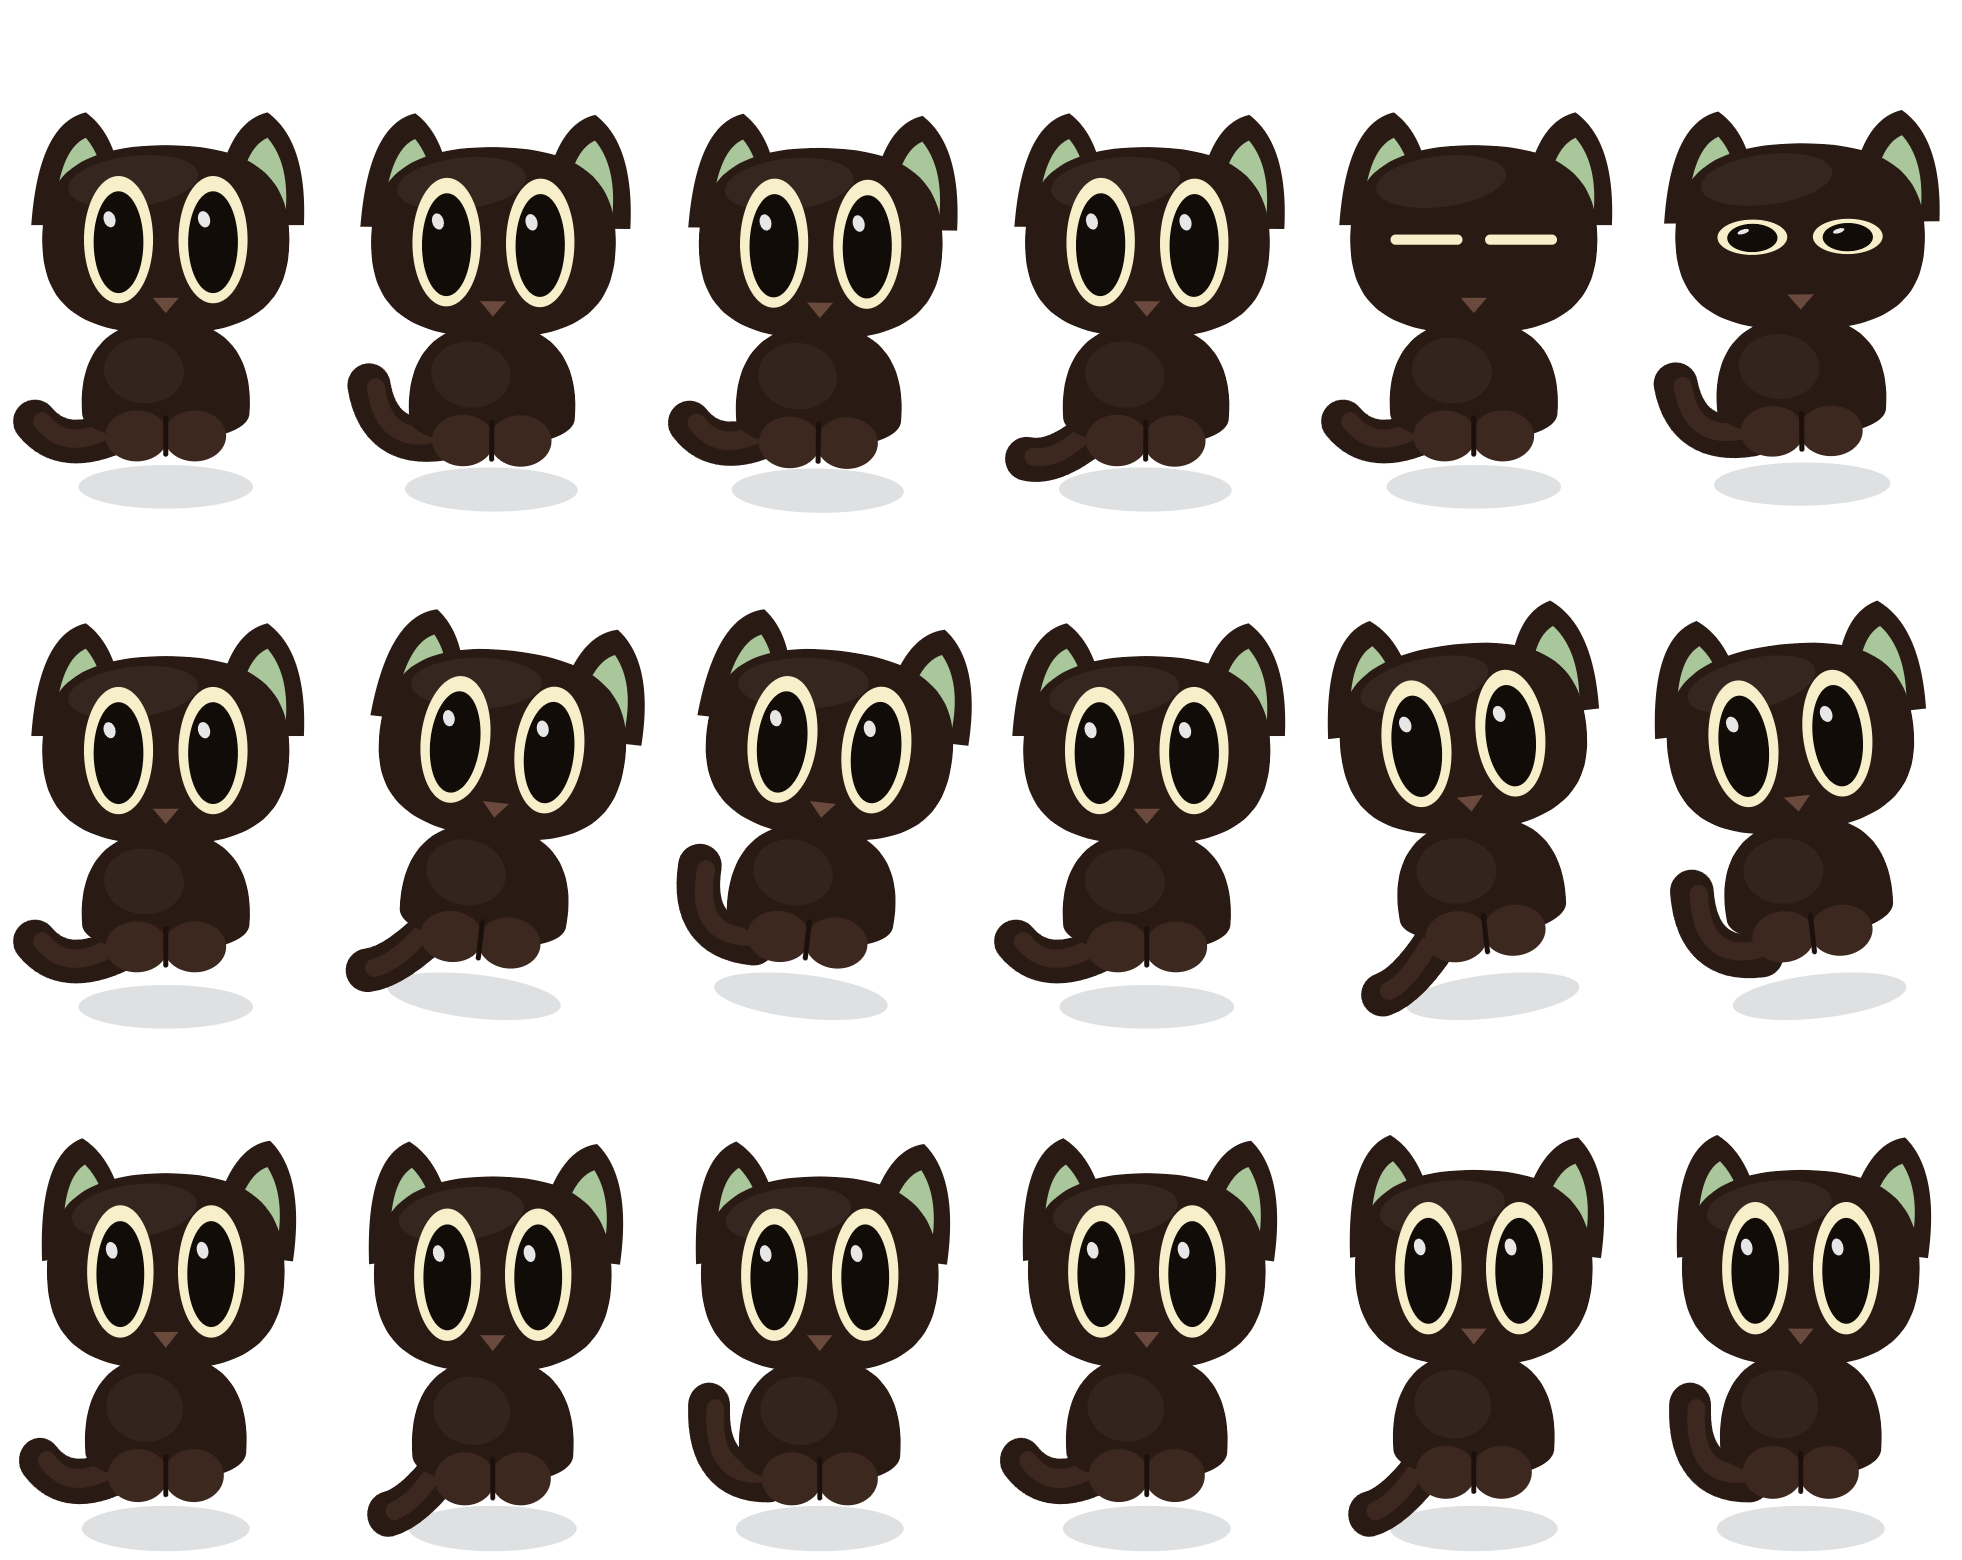
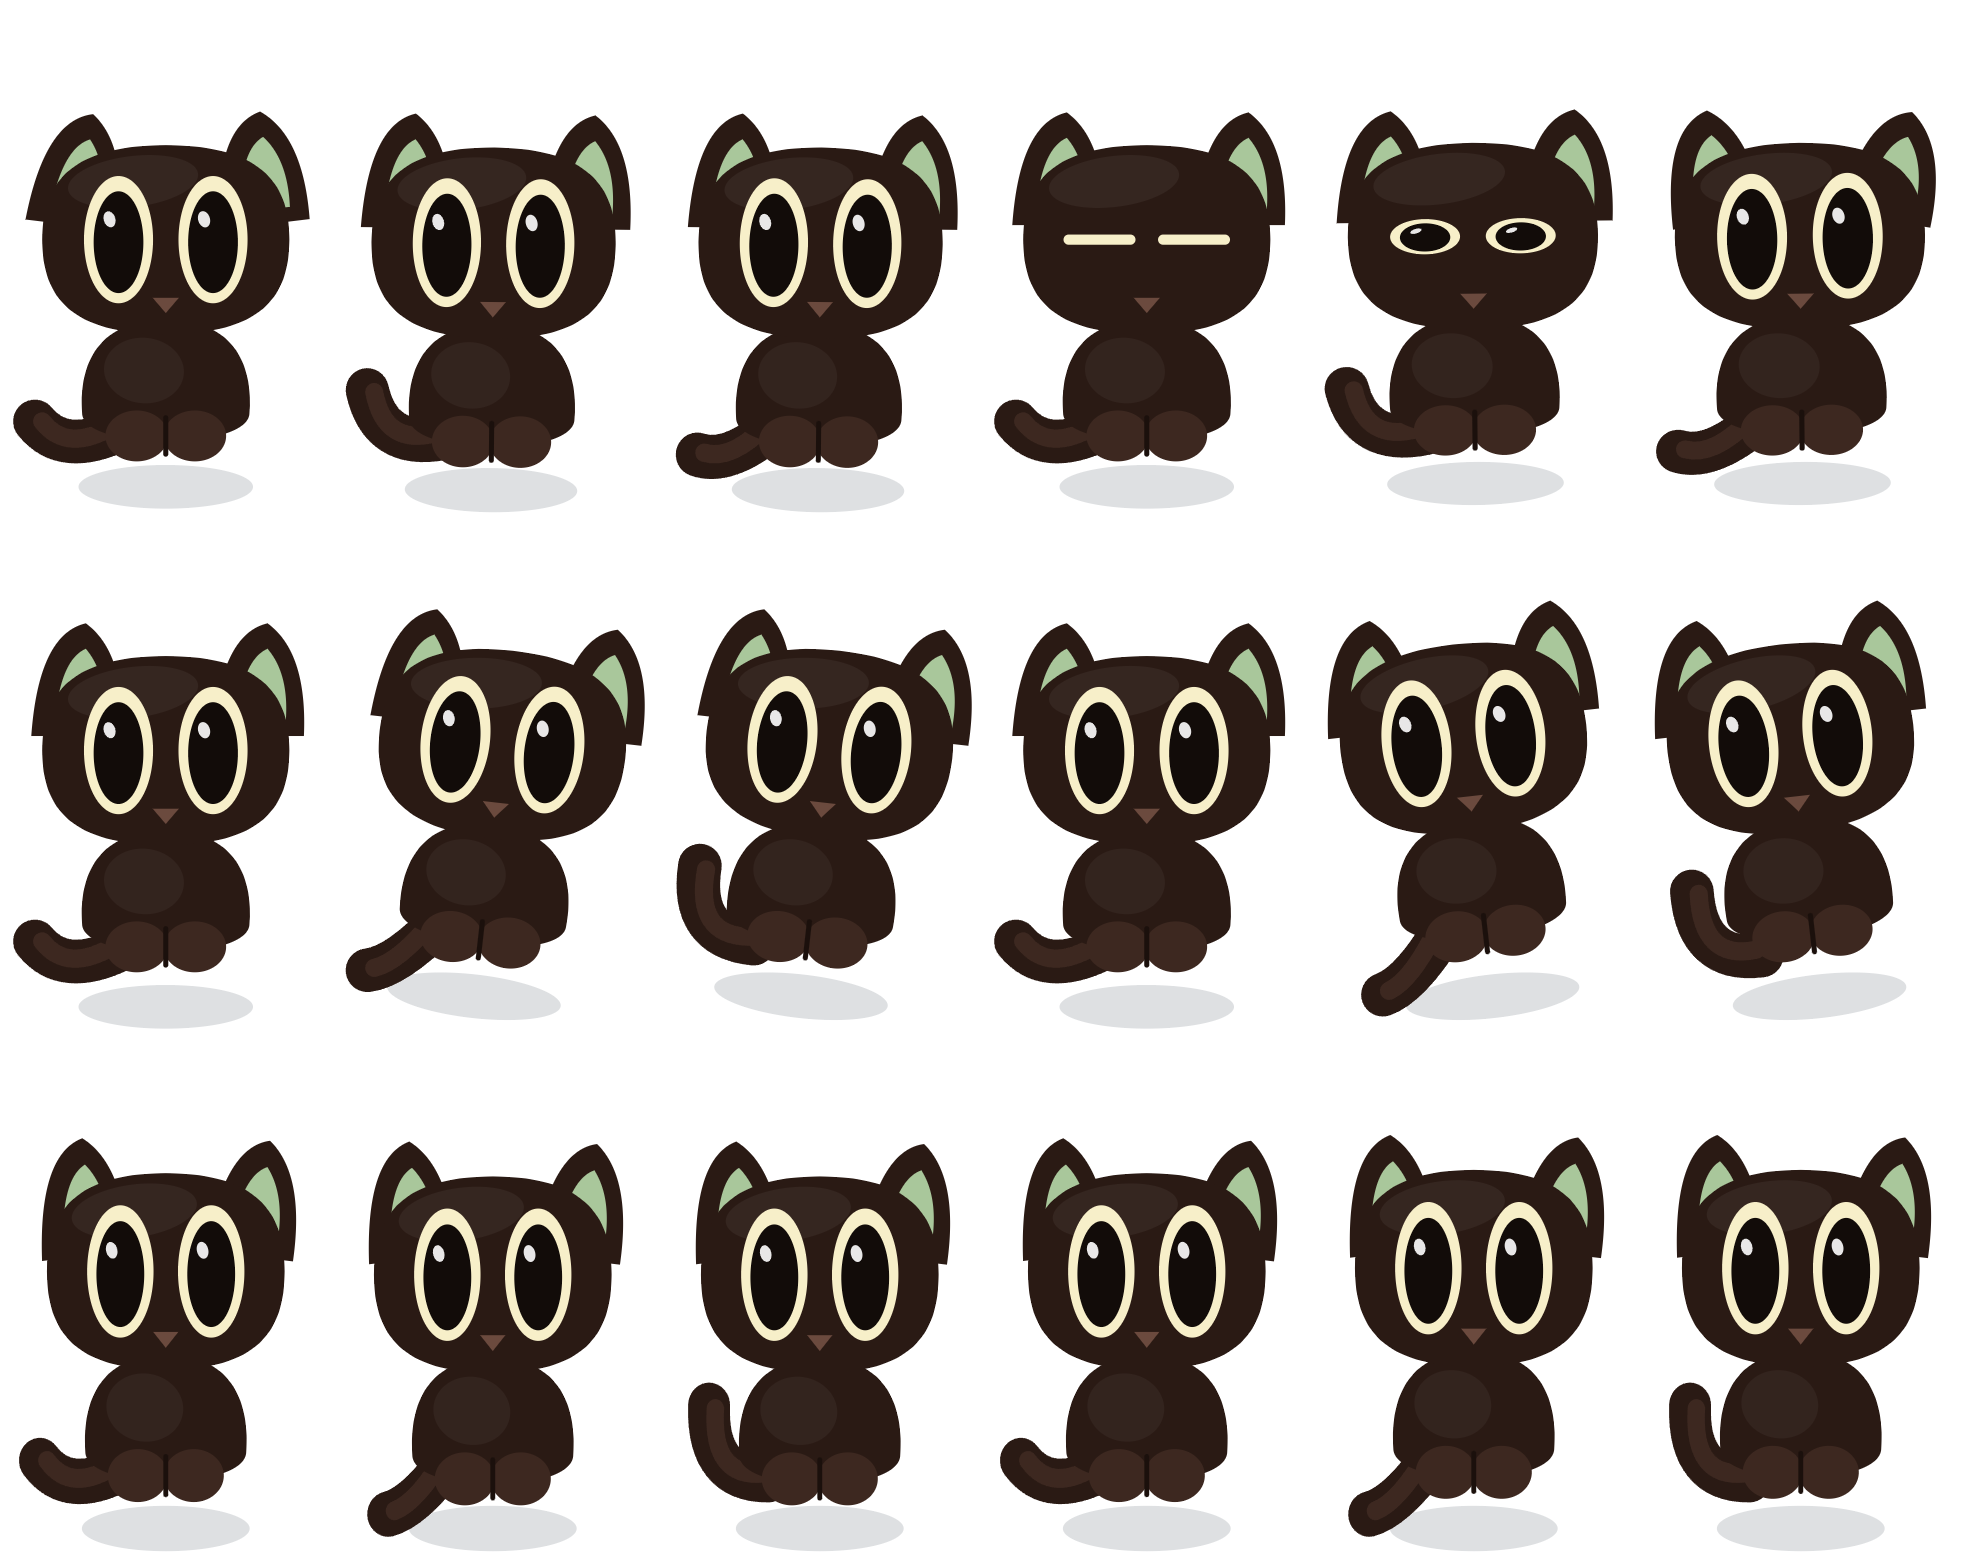
彻底修掉小猫「消失一帧」+ 动作放慢
真正的原因：精灵图每行只有 6 格，而我把待机行配成了 8 帧，
第 7、8 帧画到了表格外面。程序播到那两帧时读的是图外区域，
所以整只猫都不见了（不是画成空白，是根本没画进去）。

改法：待机帧数 8 -> 6，正好填满 6 格；眨眼/动耳朵的帧号对应调整：
  第 0 帧 耳朵轻转 / 第 1-2 帧 静止 / 第 3 帧 眨眼闭成线 /
  第 4 帧 半睁（恢复中）/ 第 5 帧 耳朵再转一次
帧率 6 -> 4，动作整体放慢。

教训：帧数不是随便设的 —— 上限就是精灵图的列数（6）。
以后加每形象特殊配置时，要同时核对「列数 / 声明帧数 / 实际绘制帧数」三者一致。

diff --git a/build/make-skins.js b/build/make-skins.js
@@ -1828,19 +1828,19 @@ function drawCat(ctx, q, p, kind) {
   const INNER = '#A9C79B';
   const PUPIL = '#120C09';
 
-  const n = kind === 'idle' ? 8 : 6;
+  const n = kind === 'idle' ? 6 : 6;
   const idx = Math.round(p * n) % n;
   const t = p * TAU;
 
   /* 眨眼 */
   let blink = 0;
-  if (kind === 'idle' && (idx === 4 || idx === 5)) blink = idx === 5 ? 0.72 : 1;
+  if (kind === 'idle' && (idx === 3 || idx === 4)) blink = idx === 4 ? 0.72 : 1;
   const eyeOpen = 1 - blink;
 
   /* 动耳朵 */
   let earTw = 0;
-  if (kind === 'idle' && idx === 6) earTw = 0.17;
-  if (kind === 'idle' && idx === 7) earTw = -0.14;
+  if (kind === 'idle' && idx === 5) earTw = 0.17;
+  if (kind === 'idle' && idx === 0) earTw = -0.12;
   if (kind === 'cheer') earTw = 0.11;
 
   /* 摇尾巴 */
@@ -2018,7 +2018,7 @@ app.whenReady().then(async () => {
     for (const s of SKINS) {
       /* ---- 第一遍：在等大的格子里量出「运动包络」 ---- */
       await w.webContents.executeJavaScript(
-        "window.IDLEN=" + (s.id === 'cat' ? 8 : 4) + ";" +
+        "window.IDLEN=" + (s.id === 'cat' ? 6 : 4) + ";" +
         "window.CELLW=" + PROBE + ";window.CELLH=" + PROBE +
         ";window.SCALE=0.8;window.OFFX=0;window.OFFY=0;window.render('" + s.id + "')");
       await sleep(240);
@@ -2058,7 +2058,7 @@ app.whenReady().then(async () => {
       await sleep(260);
       /* 直接导出 canvas：不再截图，FH 开多大都不会被屏幕尺寸裁掉 */
       const dataUrl = await w.webContents.executeJavaScript(
-        "(function(){window.IDLEN=" + (s.id === 'cat' ? 8 : 4) + ";" +
+        "(function(){window.IDLEN=" + (s.id === 'cat' ? 6 : 4) + ";" +
         "window.CELLW=" + fw + ";window.CELLH=" + FH +
         ";window.SCALE=" + scale.toFixed(4) + ";window.OFFX=" + offX.toFixed(2) +
         ";window.OFFY=" + offY.toFixed(2) + ";window.render('" + s.id + "');" +
@@ -2094,7 +2094,7 @@ app.whenReady().then(async () => {
         frame: { w: fw, h: FH }, fps: 10, sheet: 'sheet.png',        /* 脚底到格子底边的真实余量(px)，程序据此刻精确贴底 */        bottomGap: bottomGap,
         animations: {
           /* 待机放慢：帧率太高会一直在抖，看久了很烦 */
-          idle: { row: 0, count: s.id === 'cat' ? 8 : 4, fps: s.id === 'cat' ? 6 : 3.5 },
+          idle: { row: 0, count: s.id === 'cat' ? 6 : 4, fps: s.id === 'cat' ? 4 : 3.5 },
           dance: { row: 1, count: 6, fps: 12 },
           cheer: { row: 2, count: 6, fps: 10 }
         }
